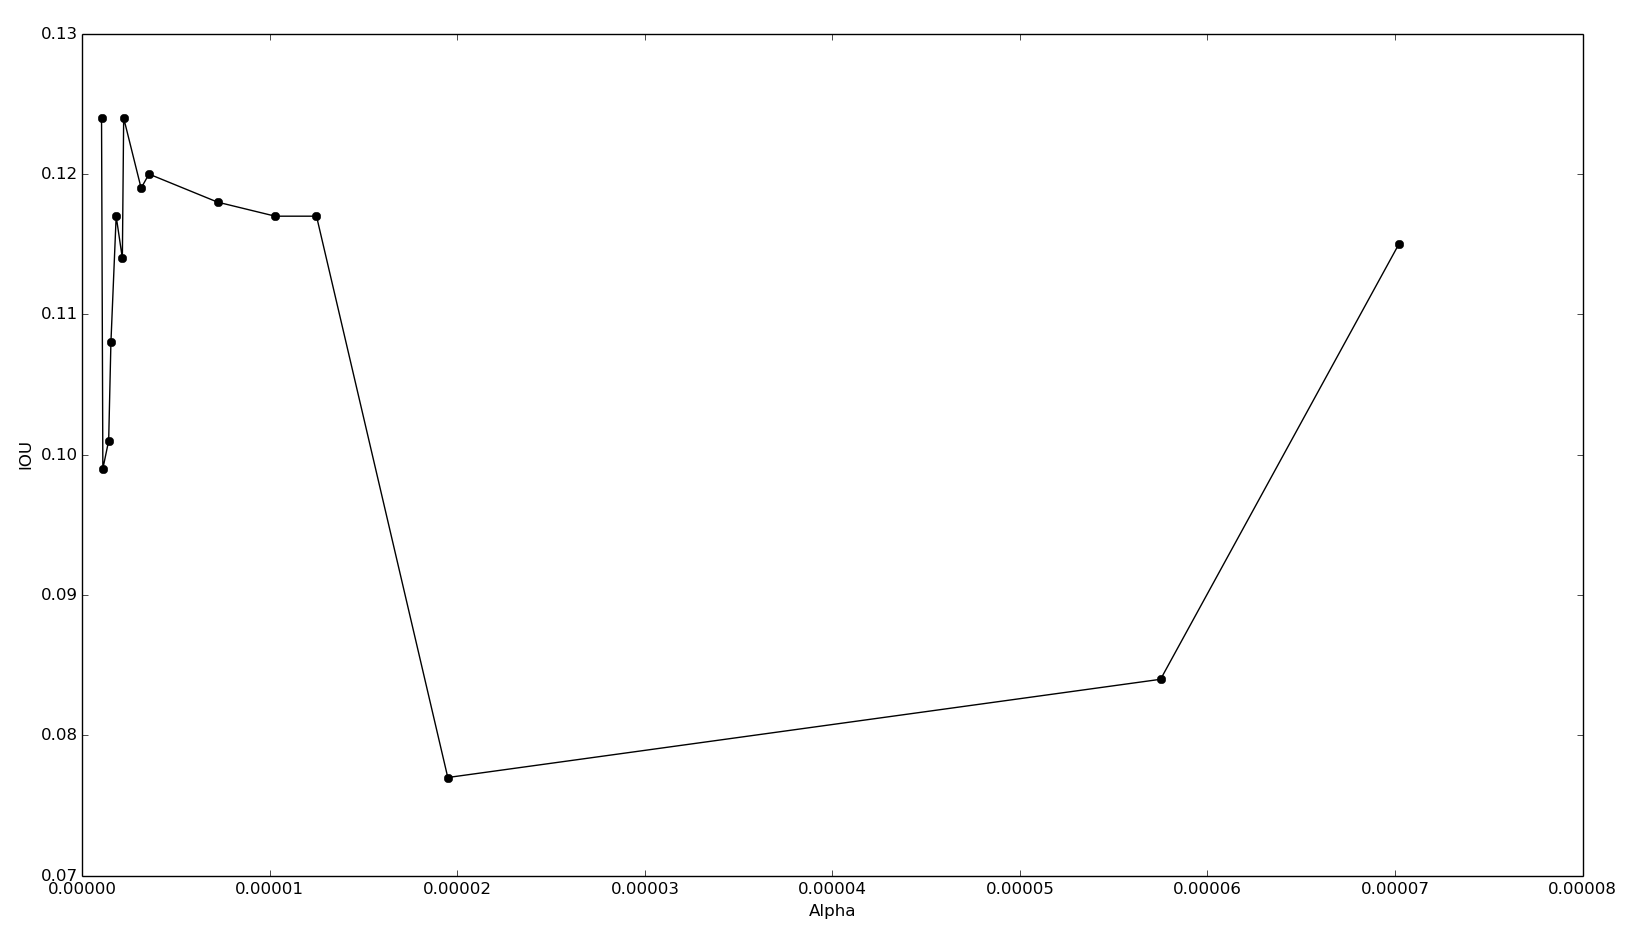
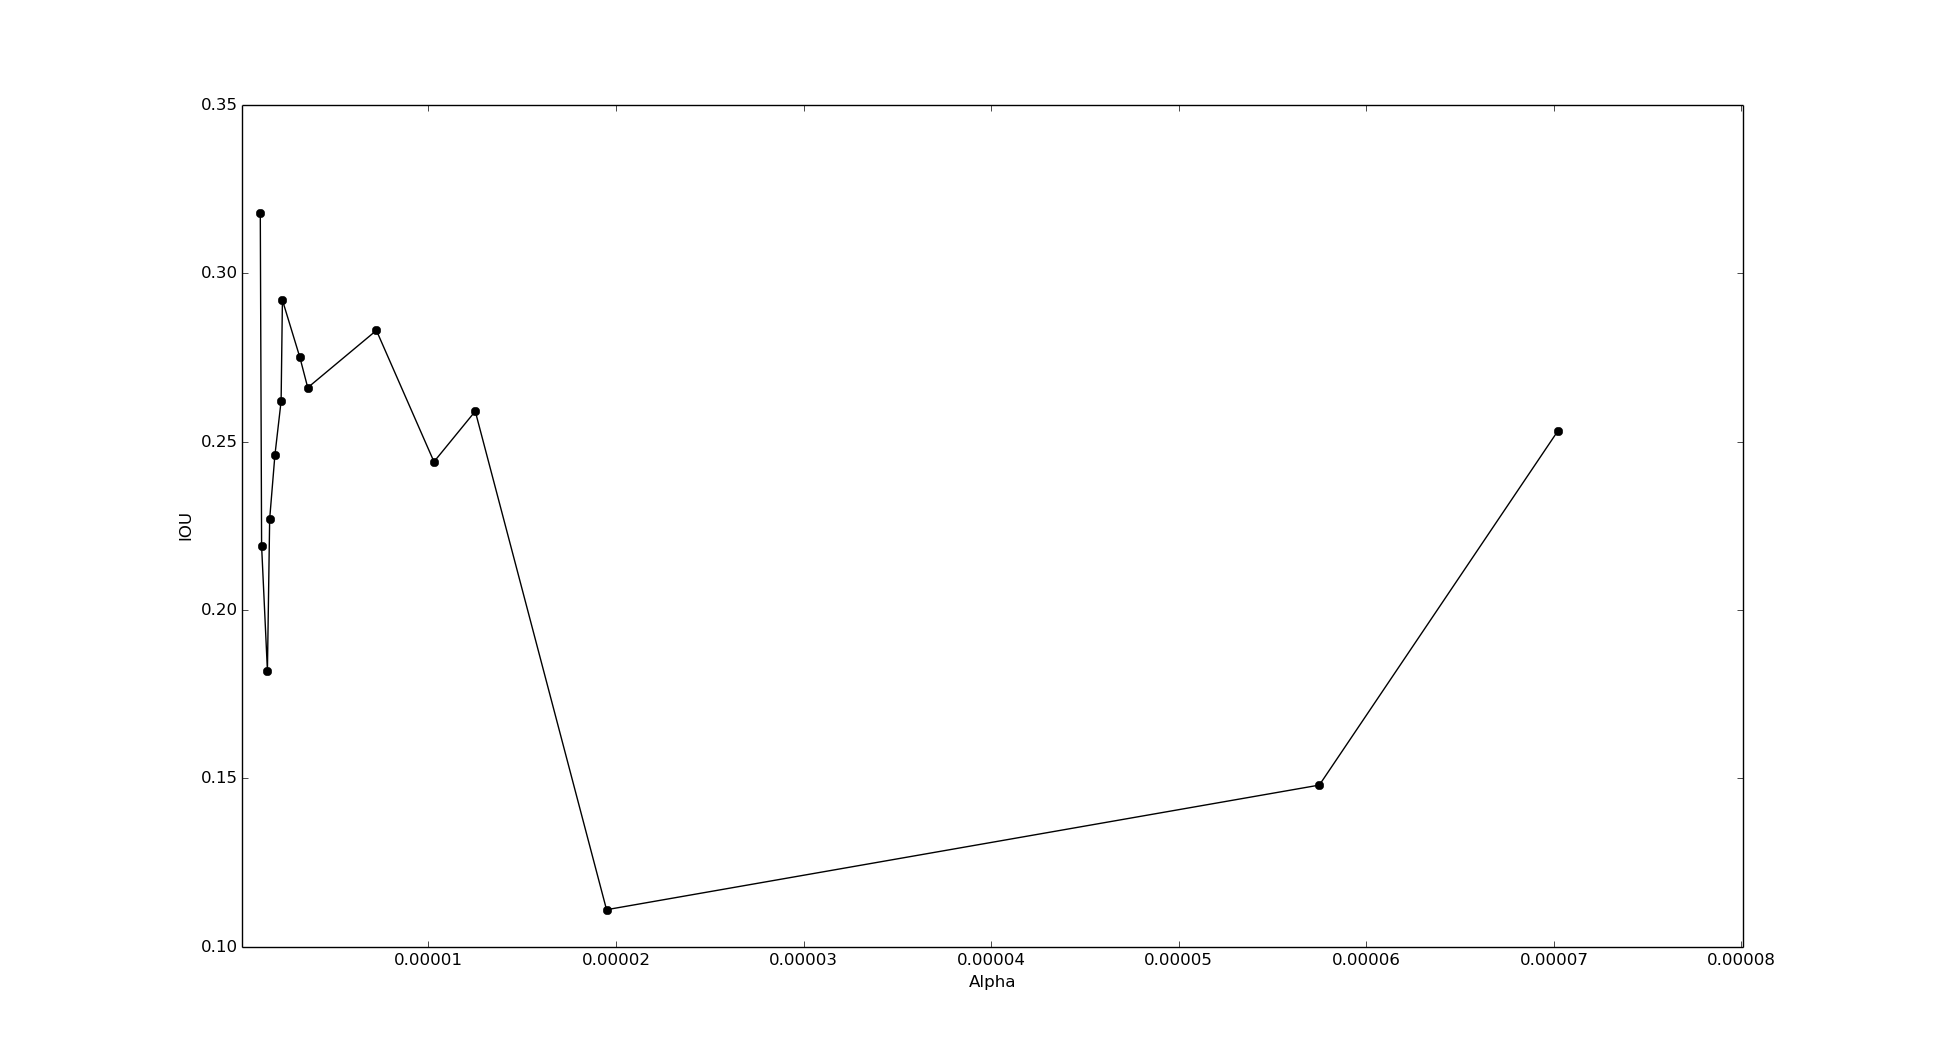
More hyperparamter updated results

diff --git a/experiments/hyperparameters/plotResults.py b/experiments/hyperparameters/plotResults.py
@@ -21,7 +21,7 @@ iou = np.array([0.015, 0.015, 0.073, 0.015, 0.13, 0.17, 0.019, 0.015, 0.085, 0.0
 # Hyperparameter search 2
 alpha = np.array([1.04E-006, 1.11E-006, 1.42E-006, 1.54E-006, 1.82E-006, 2.15E-006, 2.22E-006, 3.15E-006, 3.57E-006, 7.23E-006, 1.03E-005, 1.25E-005, 1.95E-005, 5.75E-005, 7.02E-005])
 lambda_ = np.array([3.01E-003, 3.39E-004, 2.15E-003, 2.18E-003, 3.77E-002, 1.27E-002, 5.42E-004, 4.32E-004, 3.88E-002, 5.01E-003, 7.40E-005, 1.82E-005, 3.29E-002, 4.44E-003, 1.16E-005])
-iou = np.array([0.124, 0.099, 0.101, 0.108, 0.117, 0.114, 0.124, 0.119, 0.12, 0.118, 0.117, 0.117, 0.077, 0.084, 0.115])
+iou = np.array([0.318, 0.219, 0.182, 0.227, 0.246, 0.262, 0.292, 0.275, 0.266, 0.283, 0.244, 0.259, 0.111, 0.148, 0.253])
 
 # Hyperparameter search 4 (First 17 only)
 alpha = np.array([2.37E-006, 2.93E-006, 3.12E-006, 4.64E-006, 1.12E-005, 2.11E-005, 2.13E-005, 5.92E-005, 1.49E-004, 3.23E-004, 4.52E-004, 5.44E-004, 7.01E-004, 7.13E-004, 1.69E-003, 4.92E-003, 9.73E-003])
@@ -52,7 +52,7 @@ plt.show()
 #xs, ys = np.meshgrid(np.linspace(alpha.min(), alpha.max()), np.linspace(lambda_.min(), lambda_.max()))
 #xs, ys = np.meshgrid(alpha, lambda_) 
 #xs, ys = np.meshgrid(alpha, lambda_[order[0:-5]]) # Discard 5 highest lambdas
-xs, ys = np.meshgrid(np.logspace(-6, -1), np.logspace(-4, 1))
+xs, ys = np.meshgrid(np.logspace(-6, -4), np.logspace(-5, -1))
 zs = griddata((alpha, lambda_), iou, (xs, ys), method = 'nearest')
 plt.pcolor(xs, ys, zs, cmap = cm.gray)
 plt.xlabel('Alpha')
